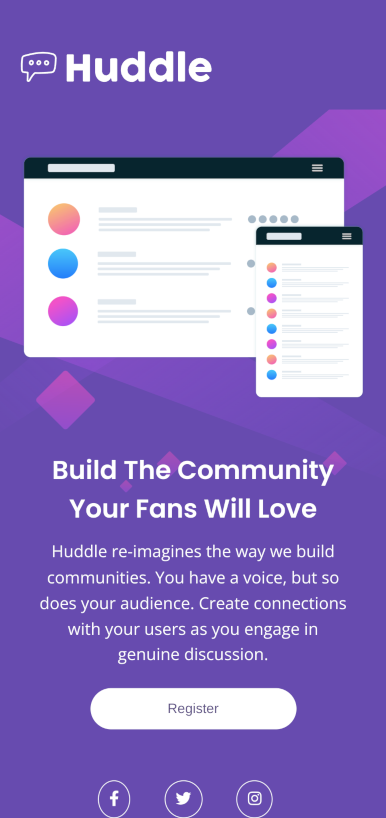
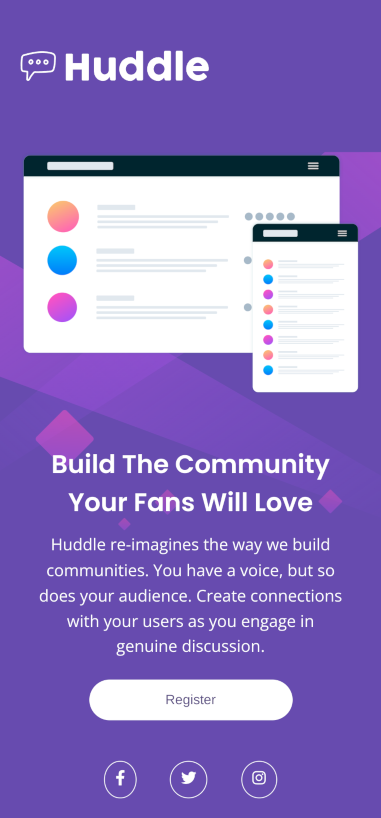
Altera o espaçamento do footer no mobile do projeto Huddle

diff --git a/landing-page-Huddle/index.html b/landing-page-Huddle/index.html
@@ -6,7 +6,7 @@
     <meta http-equiv="X-UA-Compatible" content="IE=edge">
     <meta name="viewport" content="width=device-width, initial-scale=1.0">
     <link rel="stylesheet" href="style.css">
-    <link rel="shortcut icon" href="img/favicon.png" type="image/x-icon">
+    <link rel="shortcut icon" href="/img/favicon-32x32.png" type="image/x-icon">
     <script src="https://kit.fontawesome.com/c8142e2aed.js" crossorigin="anonymous"></script>
     <title>Huddle</title>
 </head>

diff --git a/landing-page-Huddle/style.css b/landing-page-Huddle/style.css
@@ -78,6 +78,10 @@ footer a {
     padding: 7px;
 }
 
+footer a:nth-child(3) {
+    margin-right: 0px;
+}
+
 footer i {
     color: #fff;
     border: 1px solid #fff;
@@ -144,6 +148,7 @@ footer i:hover {
         display: flex;
         justify-content: center;
         align-items: center;
-        margin: 50px 0 20px;
+        margin: 20px 0px;
+        padding: 20px 0px;
     }
 }
